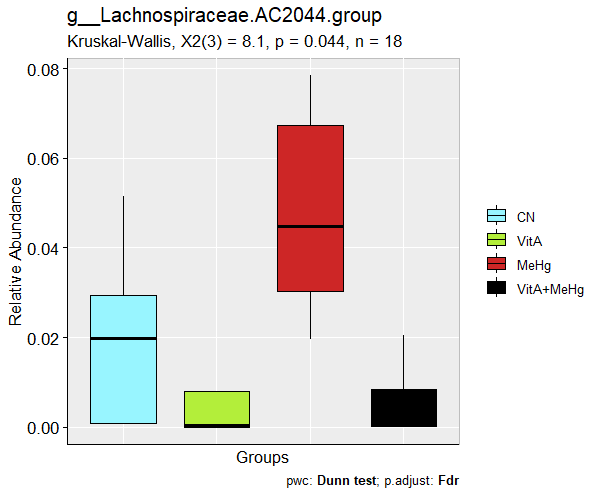
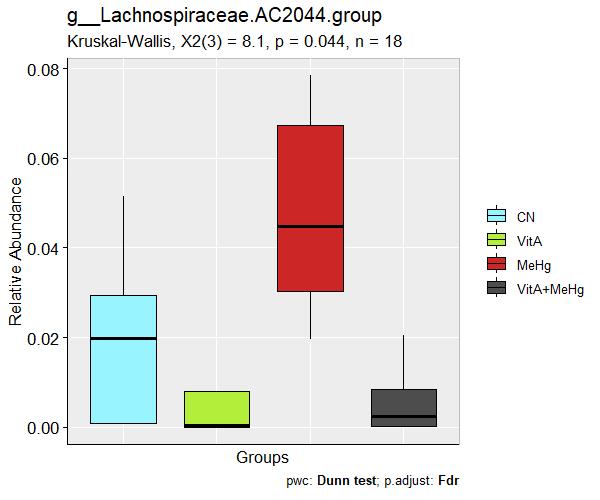
Match Figure S3 treatment colors

Changed region(s): [[0.6, 0.78, 0.75, 0.87], [0.81, 0.54, 0.84, 0.6]]

diff --git a/README.md b/README.md
@@ -25,7 +25,7 @@ Sex, generation, treatment, sequencing batch, analysis inclusion, and data-depos
 This repository is under active reproducibility curation.
 
 - Figure 3 panels A-K, Figure 4 panels A-D, Figure 5 panel D, Figure 6 panels A-C, Figure S1 panels A-H, all 75 taxon-abundance panels in Figures S2-S5, panels E of Figures 7 and 8, and all ten KO z-score heatmaps in Figures S8-S16 have portable, tested workflows. The 19 KO-level source tables shared by Figures 7, 8, and S8-S16 also have a portable, regression-tested generator. Their KEGG pathway panels remain retained manual exports prepared with the generated z-score tables as the coloring reference; supplied final composites are retained for visual validation.
-- Figure S3 generated panels correct the erroneous treatment ordering in the historical PND21 exports. Their authoritative order is `CN`, `VitA`, `MeHg`, `VitA+MeHg` with blue, green, red, and black fills; the historical composite is retained only for provenance.
+- Figure S3 generated panels correct the erroneous treatment ordering in the historical PND21 exports. Their authoritative order and colors match the other abundance panels: `CN` (`#98F5FF`), `VitA` (`#B3EE3A`), `MeHg` (`#CD2626`), and `VitA+MeHg` (`#4D4D4D`); the historical composite is retained only for provenance.
 - Figure S6 is a retained manual, qualitative synthesis made by visually reviewing Figure 5 and Figures S2-S5. Its interpretive construction and reproducibility boundary are documented in the [`supplementary-figure guide`](supplementary_figures/README.md#figure-s6); it is not presented as the output of a statistical or scripted workflow.
 - The PICRUSt2 terminal workflow, exact batch-specific inputs, analysis-ready outputs, and weighted-NSTI quality metrics have been harmonized and validated against the supplied pipeline products. Figure 6 uses only the canonical KO predictions and canonical sample manifest.
 - Additional main and supplementary figure workflows will be migrated and validated progressively.

diff --git a/supplementary_figures/README.md b/supplementary_figures/README.md
@@ -81,11 +81,12 @@ taxon is tested with a four-group Kruskal-Wallis test followed by all six Dunn
 tests with Benjamini-Hochberg FDR adjustment; only adjusted comparisons at or
 below 0.05 are drawn. No parametric test or normality-based method selection is
 performed. Every workflow is required to use the common treatment order `CN`,
-`VitA`, `MeHg`, `VitA+MeHg`. Figure S3 deliberately corrects the erroneous
-character-derived order in the historical PND21 exports and maps those groups
-to blue (`#98F5FF`), green (`#B3EE3A`), red (`#CD2626`), and black (`#000000`),
-respectively. Its retained composite documents the historical assembly and is
-not the ordering reference for the corrected generated panels.
+`VitA`, `MeHg`, `VitA+MeHg` and the shared colors `#98F5FF`, `#B3EE3A`,
+`#CD2626`, `#4D4D4D`, respectively. Figure S3 deliberately corrects the
+erroneous character-derived order in the historical PND21 exports while
+matching the palette used by Figures S2, S4, and S5. Its retained composite
+documents the historical assembly and is not the ordering reference for the
+corrected generated panels.
 
 Generate and validate the panels from the repository root:
 
@@ -101,7 +102,7 @@ Rscript supplementary_figures/Figure_S5/validate_figure_s5_ao.R
 The validators independently reproduce the Kruskal-Wallis statistics and
 check the exact omnibus p-values, all Dunn comparison signatures, adjusted
 significance counts, source checksums and schemas, cohort membership and
-treatment counts, the common treatment order, output names, sex-specific
+treatment counts, the common treatment order and colors, output names, sex-specific
 directories and dimensions, committed PNGs, and retained composite dimensions.
 All 72 archived TIFF panels under `Alberto/images/Abundancias/NONparametric/`
 were inspected during migration; the corrected S3 PNGs intentionally differ

diff --git a/scripts/legacy_scripts/README.md b/scripts/legacy_scripts/README.md
@@ -48,7 +48,8 @@ files without sourcing the legacy script or assembling the Photoshop
 composites. The historical PND21 block exposed Figure S3 to the incorrect
 character-derived order `CN`, `MeHg`, `VitA`, `VitA+MeHg`. The portable Figure
 S3 workflow intentionally corrects every panel to `CN`, `VitA`, `MeHg`,
-`VitA+MeHg`, assigns blue, green, red, and black fills, and treats the archived
+`VitA+MeHg`, assigns the shared `#98F5FF`, `#B3EE3A`, `#CD2626`, and `#4D4D4D`
+fills, and treats the archived
 PND21 exports and composite as provenance rather than as an ordering target.
 Figure S3-S5 female panels are written to `output/females/` and
 male panels to `output/male/`, while each final composite remains at its output
